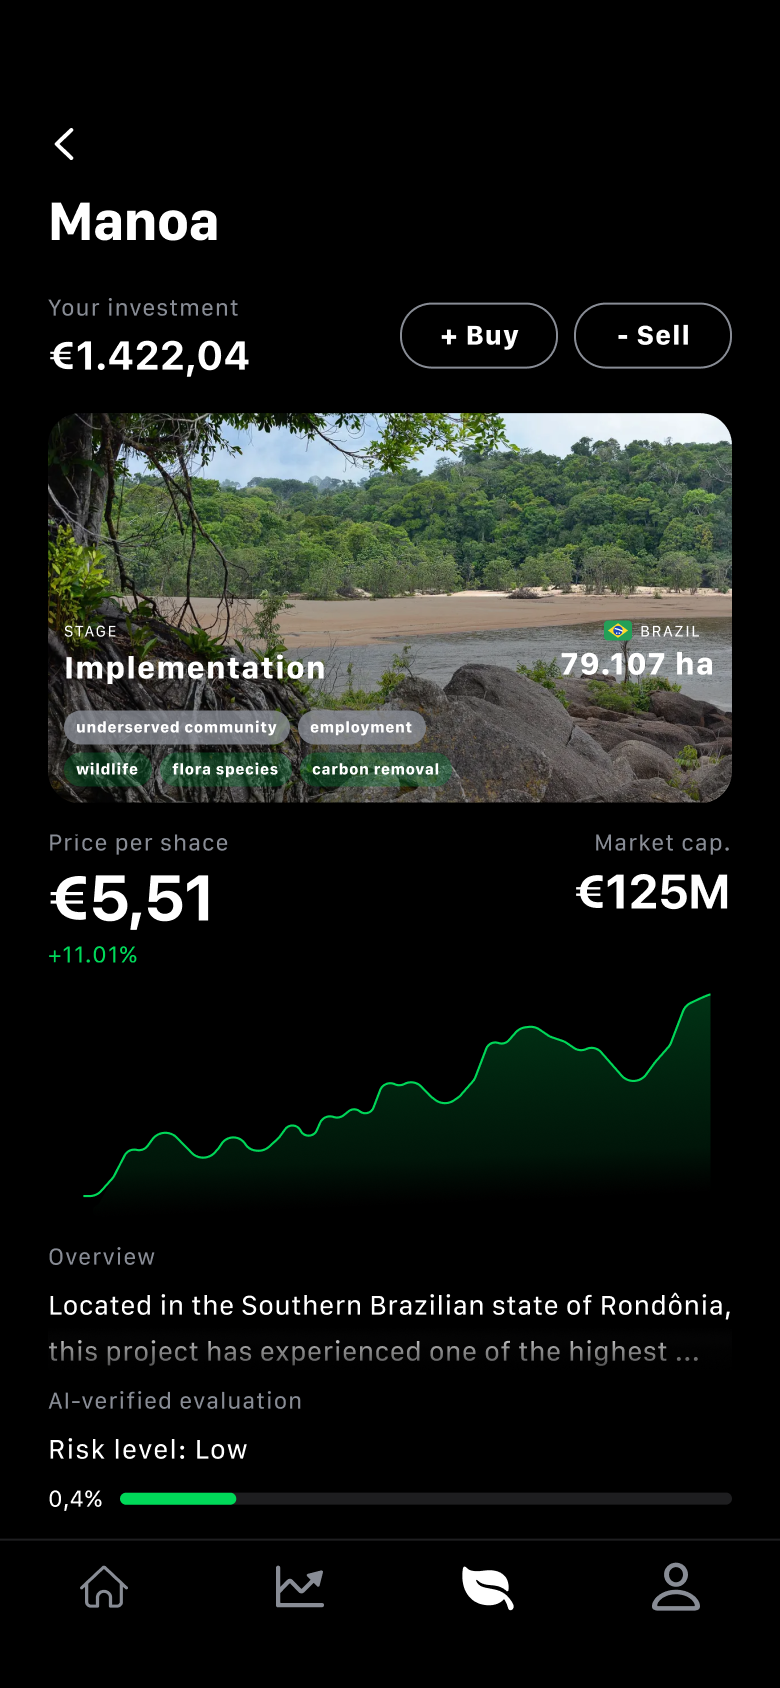
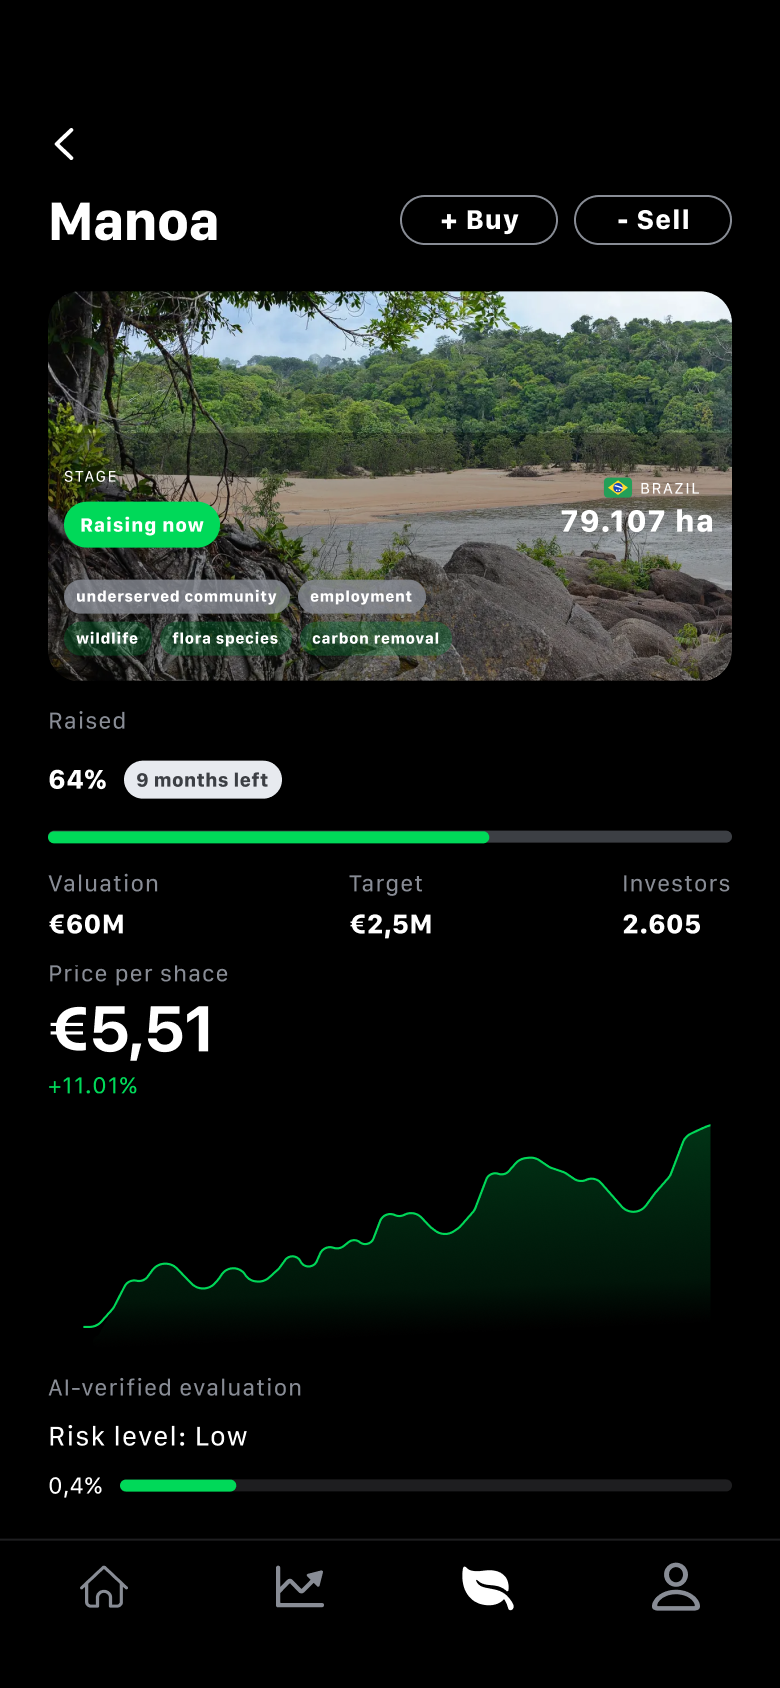
:lipstick: Update project page mockup

diff --git a/src/home/pages/sections/FeaturesSection/FeaturesSection.tsx b/src/home/pages/sections/FeaturesSection/FeaturesSection.tsx
@@ -172,8 +172,8 @@ export default function FeaturesSection() {
           <FeatureImg
             src={
               theme.mode === 'dark'
-                ? ProjectsMobileImgDarkMode
-                : ProjectsMobileImgLightMode
+                ? ProjectPageMobileImgDarkMode
+                : ProjectPageMobileImgLightMode
             }
             style={{
               height: 380,
@@ -202,8 +202,8 @@ export default function FeaturesSection() {
           <FeatureImg
             src={
               theme.mode === 'dark'
-                ? ProjectsMobileImgDarkMode
-                : ProjectsMobileImgLightMode
+                ? ProjectPageMobileImgDarkMode
+                : ProjectPageMobileImgLightMode
             }
             style={{
               height: 480,
